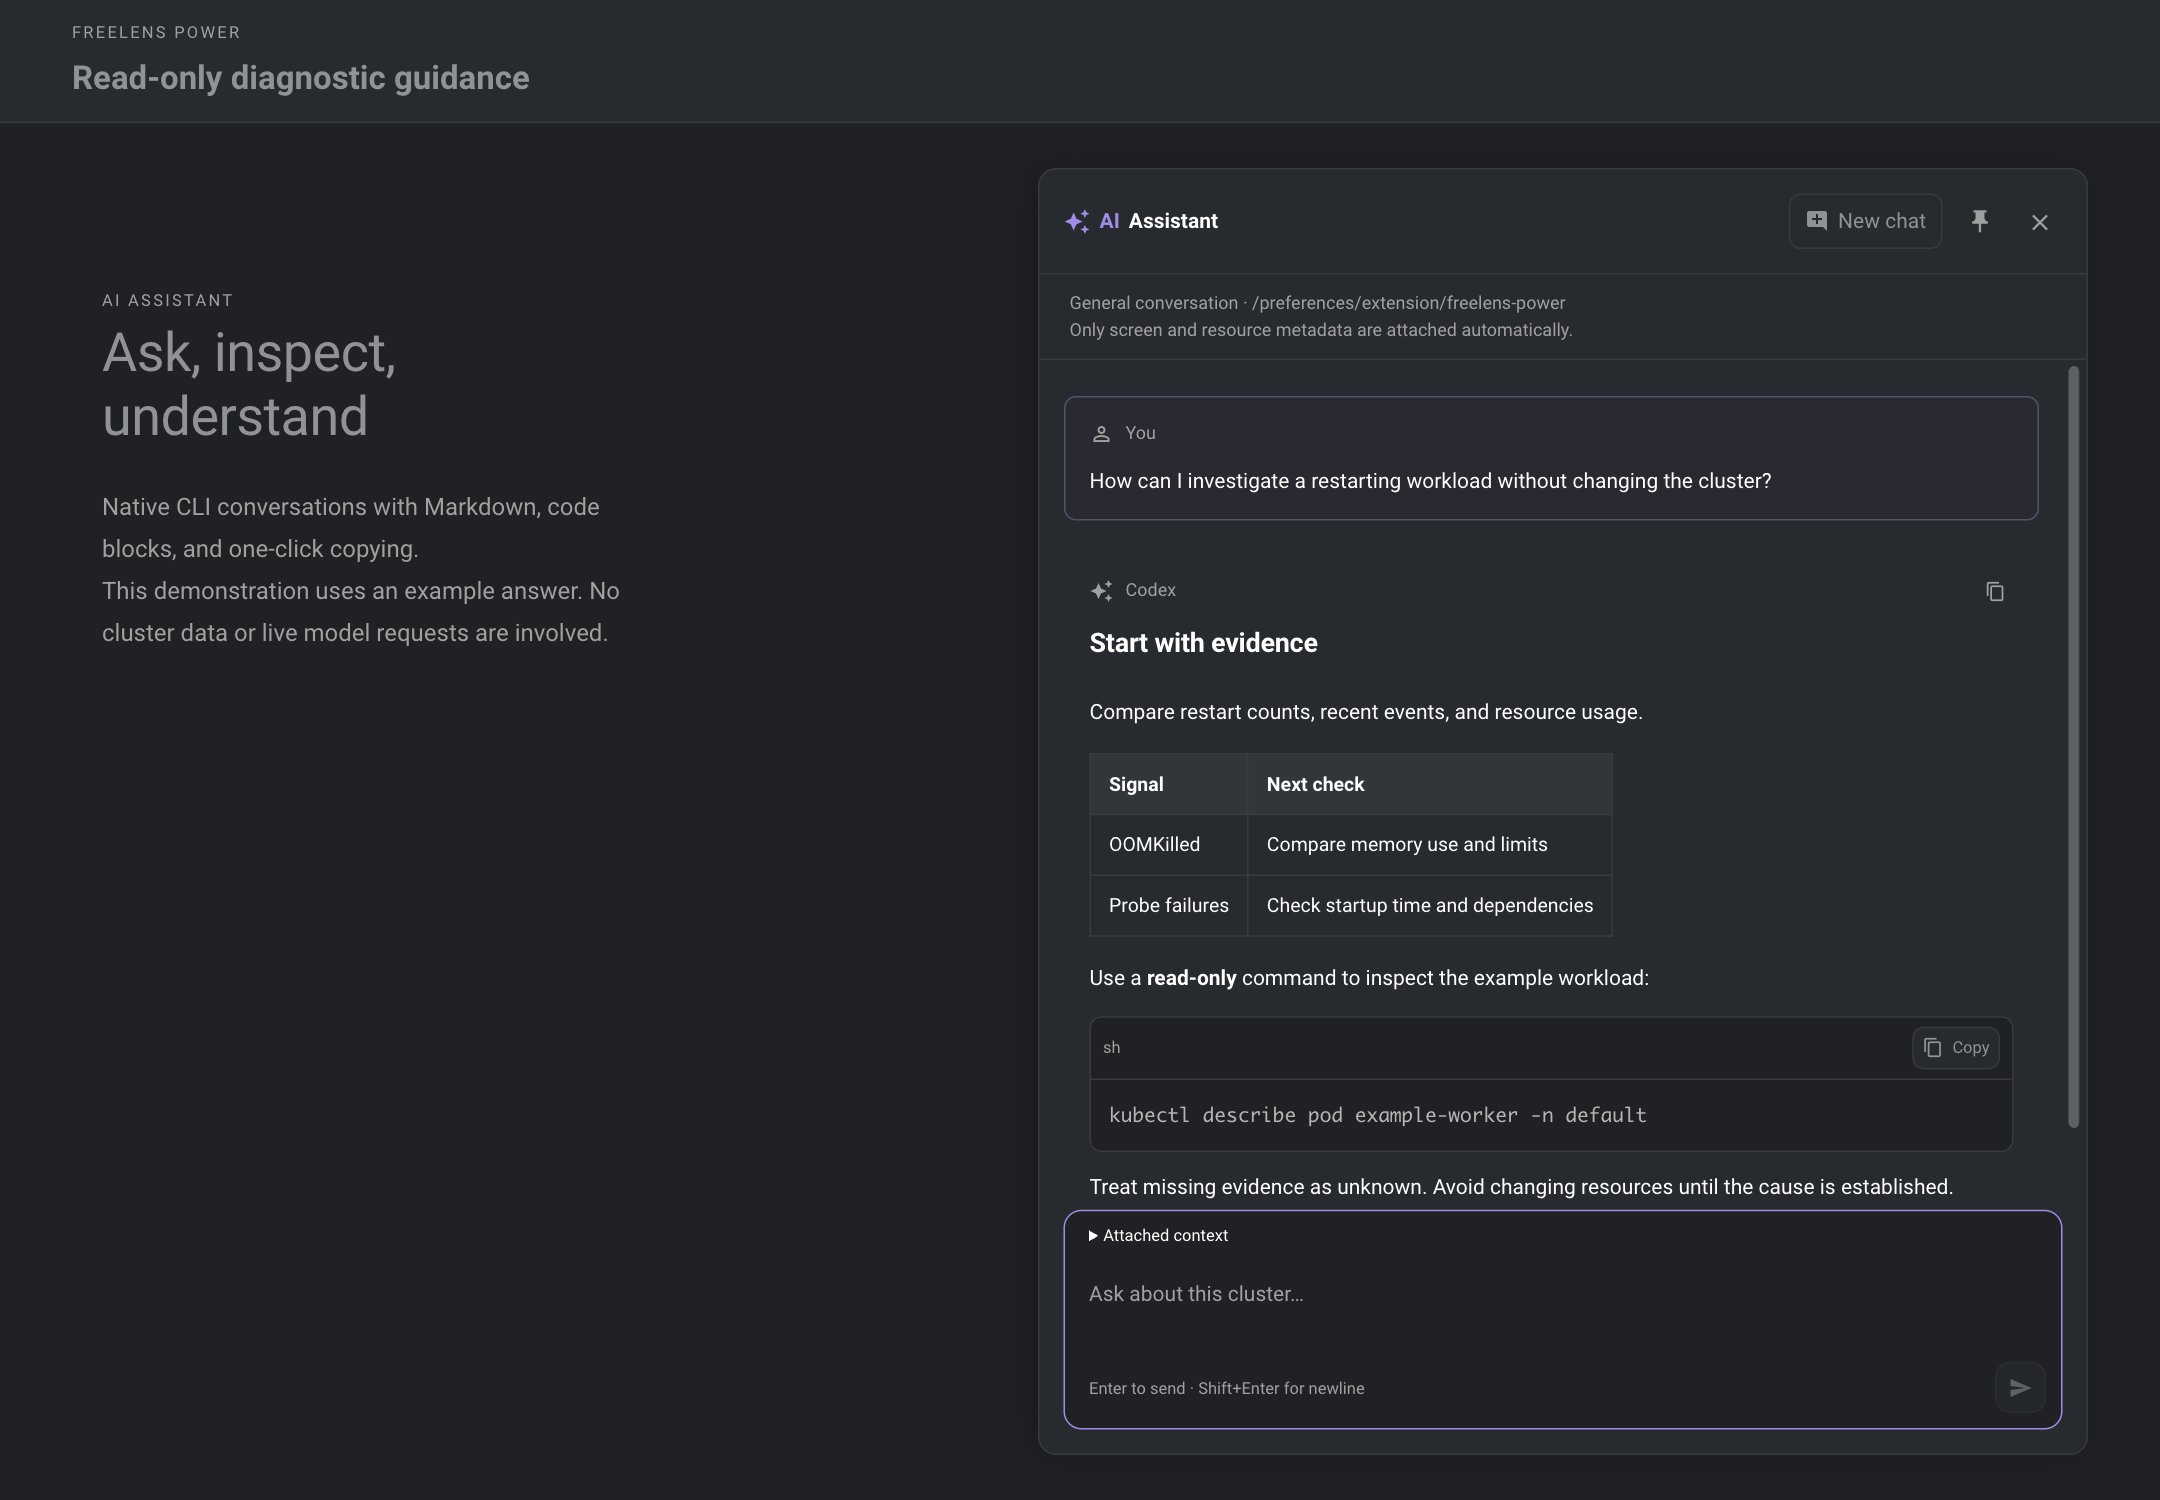
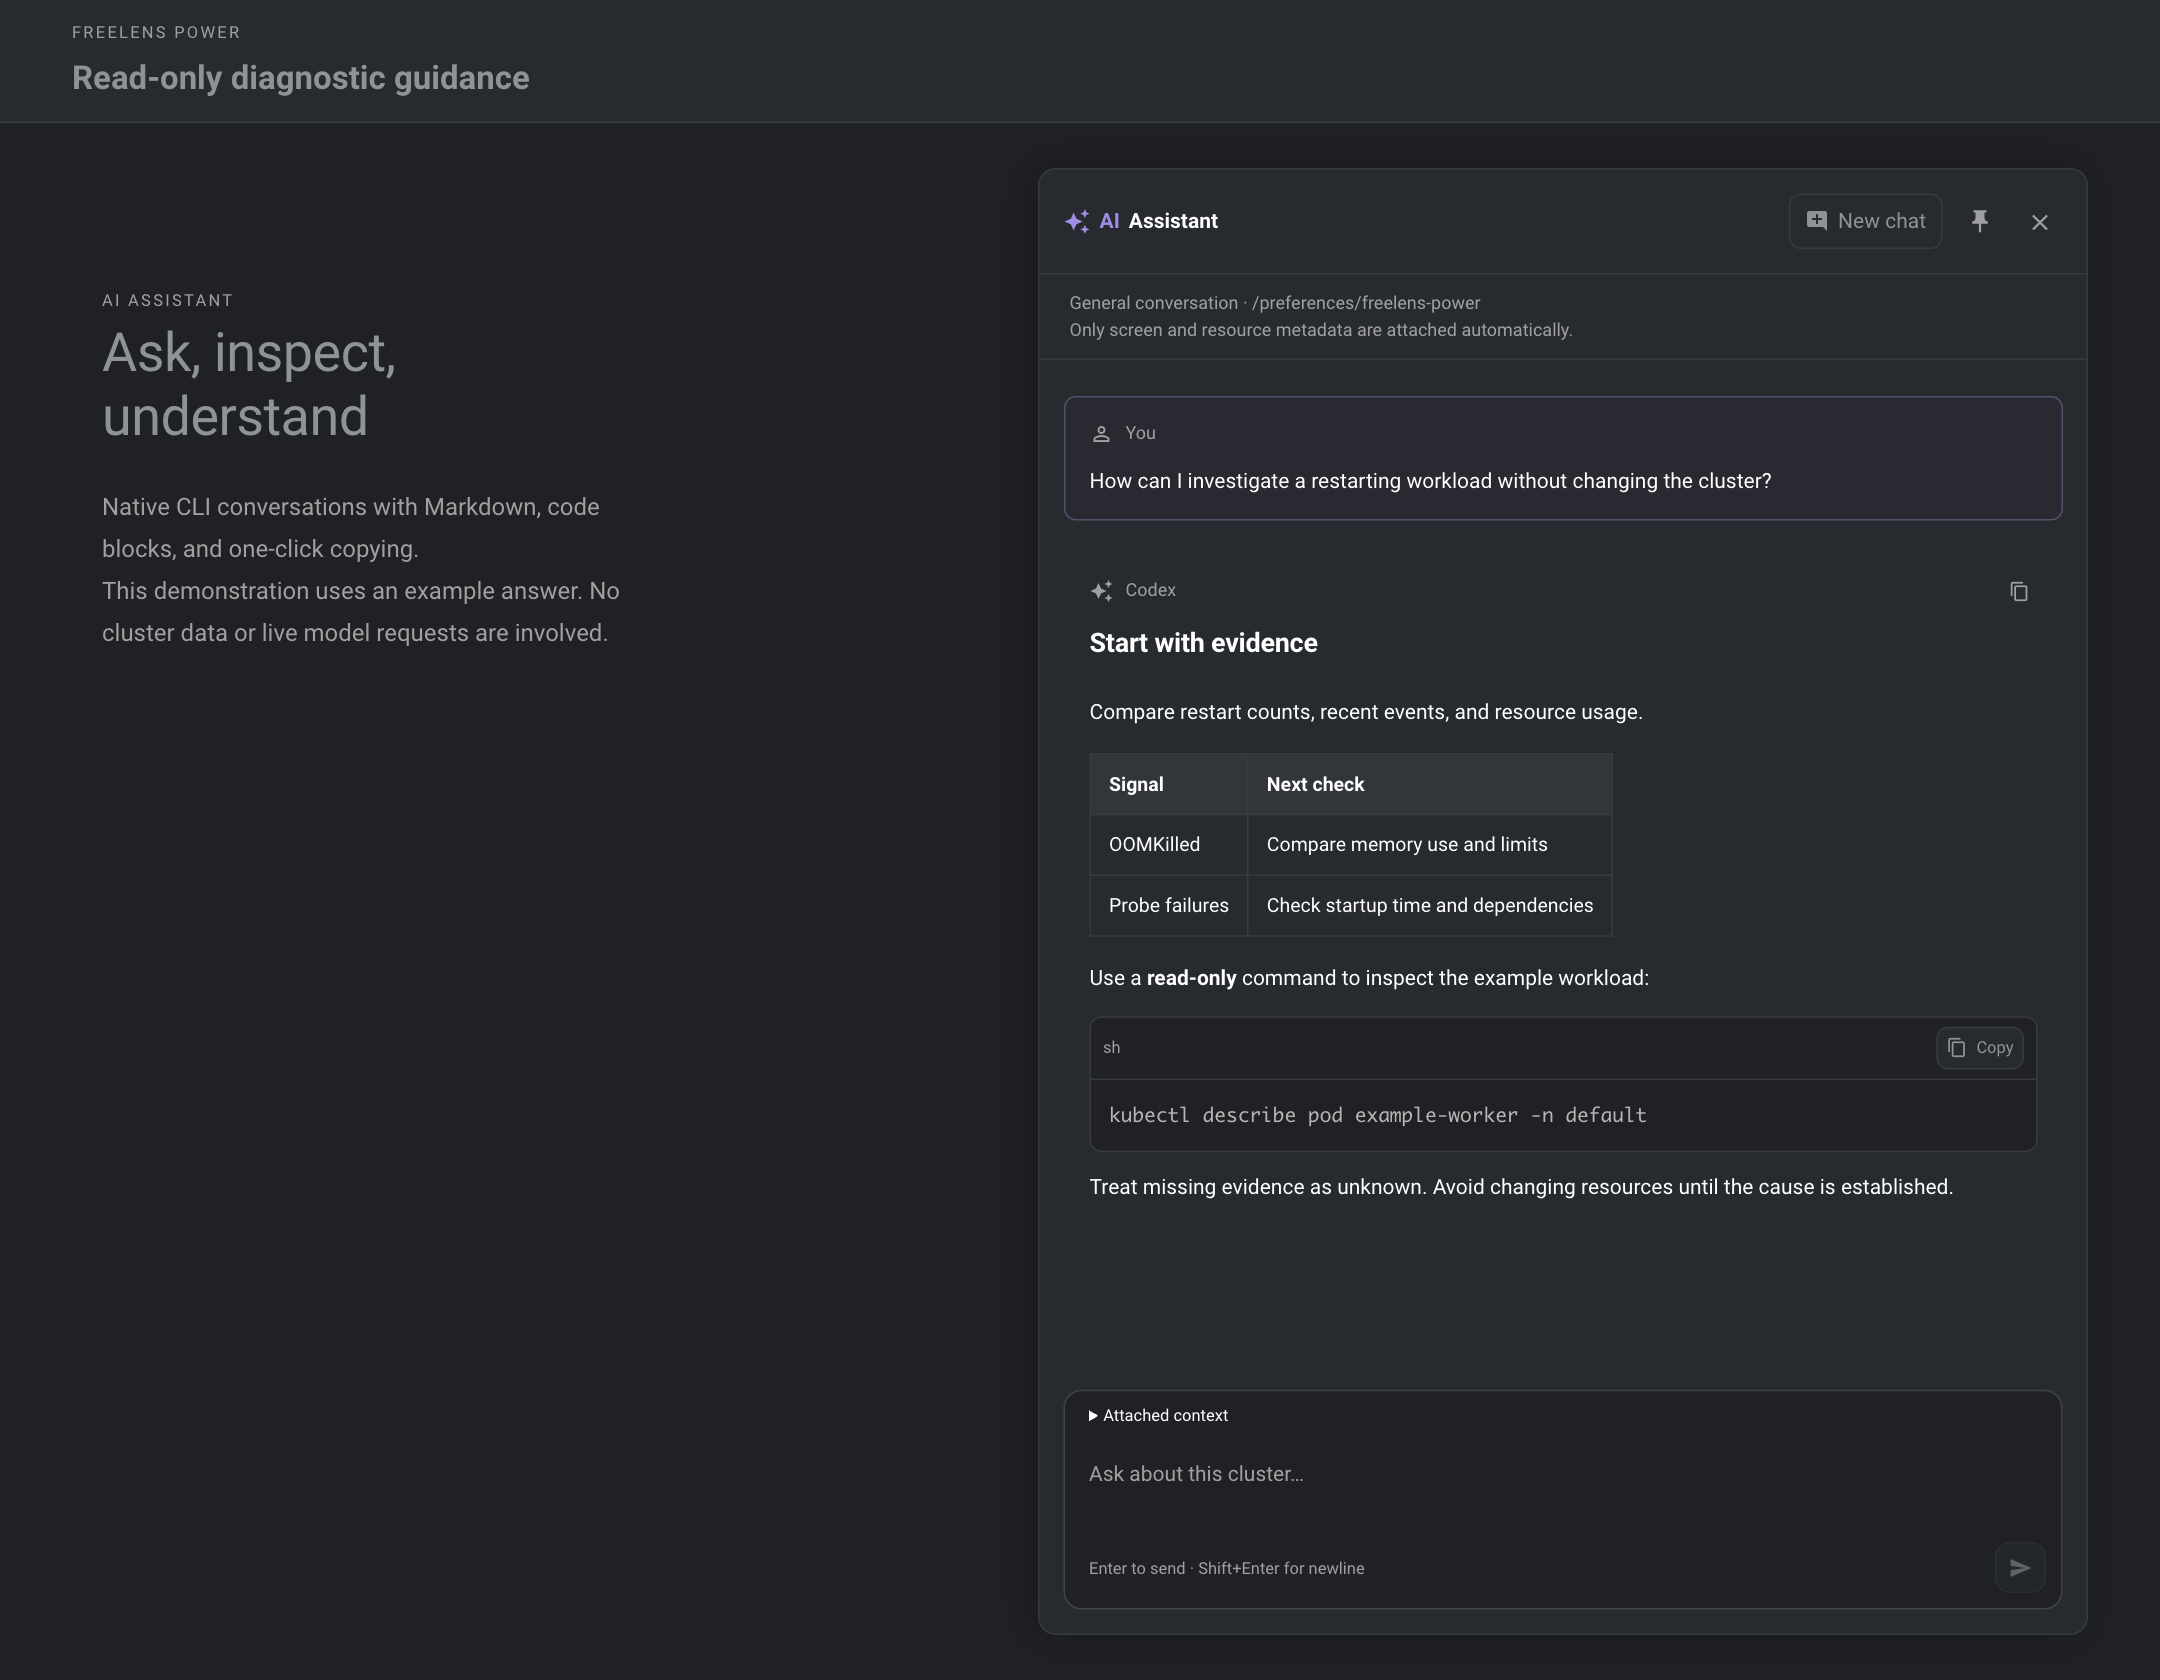
fix(ui): simplify selector actions and restore README previews

diff --git a/src/renderer/preferences/settings-modal.tsx b/src/renderer/preferences/settings-modal.tsx
@@ -35,9 +35,9 @@ export function SettingsModal({
         .power-settings-dialog .power-dashboard-selector-input:focus-within { border-color: var(--primary); }
         .power-settings-dialog .power-dashboard-selector-input .input-area { border-bottom: 0; }
         .power-settings-dialog .power-dashboard-selector-input input { font-family: var(--font-monospace, monospace); }
-        .power-settings-dialog .power-dashboard-selector-actions { display: flex; align-items: center; }
         .power-settings-dialog button.power-settings-icon-action { display: inline-flex; align-items: center; justify-content: center; width: 30px; height: 30px; min-width: 30px; padding: 0; border: 0; border-radius: 6px; background: transparent; color: var(--textColorSecondary); cursor: pointer; transition: color 160ms ease, background-color 160ms ease; }
-        .power-settings-dialog button.power-settings-icon-action:hover { color: var(--primary); background: color-mix(in srgb, var(--primary) 10%, transparent); }
+        .power-settings-dialog button.power-settings-icon-action:disabled { opacity: .45; cursor: default; }
+        .power-settings-dialog button.power-settings-icon-action:hover:not(:disabled) { color: var(--primary); background: color-mix(in srgb, var(--primary) 10%, transparent); }
         .power-settings-dialog button.power-settings-icon-action:focus-visible { outline: 2px solid var(--primary); outline-offset: 2px; }
         @media (max-width: 600px) { .power-settings-dialog .power-settings-row { align-items: stretch !important; flex-direction: column; gap: 8px !important; } .power-settings-dialog .power-settings-row > div { width: 100% !important; } }
       `}</style>

diff --git a/src/renderer/preferences/dashboard-preferences.tsx b/src/renderer/preferences/dashboard-preferences.tsx
@@ -93,12 +93,8 @@ function CardEditor({
                 onClick={() => setSelector("")}
               />
             )}
-          </div>
-          {selectorInvalid && (
-            <div role="alert">Use at most {dashboardSelectorLimit} characters without control characters.</div>
-          )}
-          <div className="power-dashboard-selector-actions">
-            <Button
+            <SettingsIconAction
+              material="center_focus_strong"
               label={picking ? "Selecting element…" : "Pick element on website"}
               disabled={!normalizedUrl || picking}
               onClick={() => {
@@ -119,6 +115,9 @@ function CardEditor({
               }}
             />
           </div>
+          {selectorInvalid && (
+            <div role="alert">Use at most {dashboardSelectorLimit} characters without control characters.</div>
+          )}
           <div id={`${id}-selector-hint`} className="power-settings-hint" style={{ marginTop: 0 }}>
             Leave empty to show the whole website.
           </div>

diff --git a/README.md b/README.md
@@ -23,11 +23,11 @@ Real extension components with synthetic website content, prompts, and conversat
 
 | Dashboard | AI assistant |
 | --- | --- |
-| <a href="docs/screenshots/dashboard.png"><img src="docs/screenshots/dashboard.png" height="240" alt="Dashboard with demonstration websites"></a> | <a href="docs/screenshots/ai-chat.png"><img src="docs/screenshots/ai-chat.png" height="240" alt="AI assistant with example read-only diagnostics and code copying"></a> |
+| [![Dashboard with demonstration websites](docs/screenshots/dashboard.png)](docs/screenshots/dashboard.png) | [![AI assistant with example read-only diagnostics and code copying](docs/screenshots/ai-chat.png)](docs/screenshots/ai-chat.png) |
 
 | AI preferences and shortcuts | Focused website cards |
 | --- | --- |
-| <a href="docs/screenshots/ai-settings.png"><img src="docs/screenshots/ai-settings.png" height="240" alt="AI preferences with neutral prompts and shortcuts"></a> | <a href="docs/screenshots/card-editor.png"><img src="docs/screenshots/card-editor.png" height="240" alt="Dashboard card editor with an example URL and CSS selector"></a> |
+| [![AI preferences with neutral prompts and shortcuts](docs/screenshots/ai-settings.png)](docs/screenshots/ai-settings.png) | [![Dashboard card editor with an example URL and CSS selector](docs/screenshots/card-editor.png)](docs/screenshots/card-editor.png) |
 
 ## Install
 
